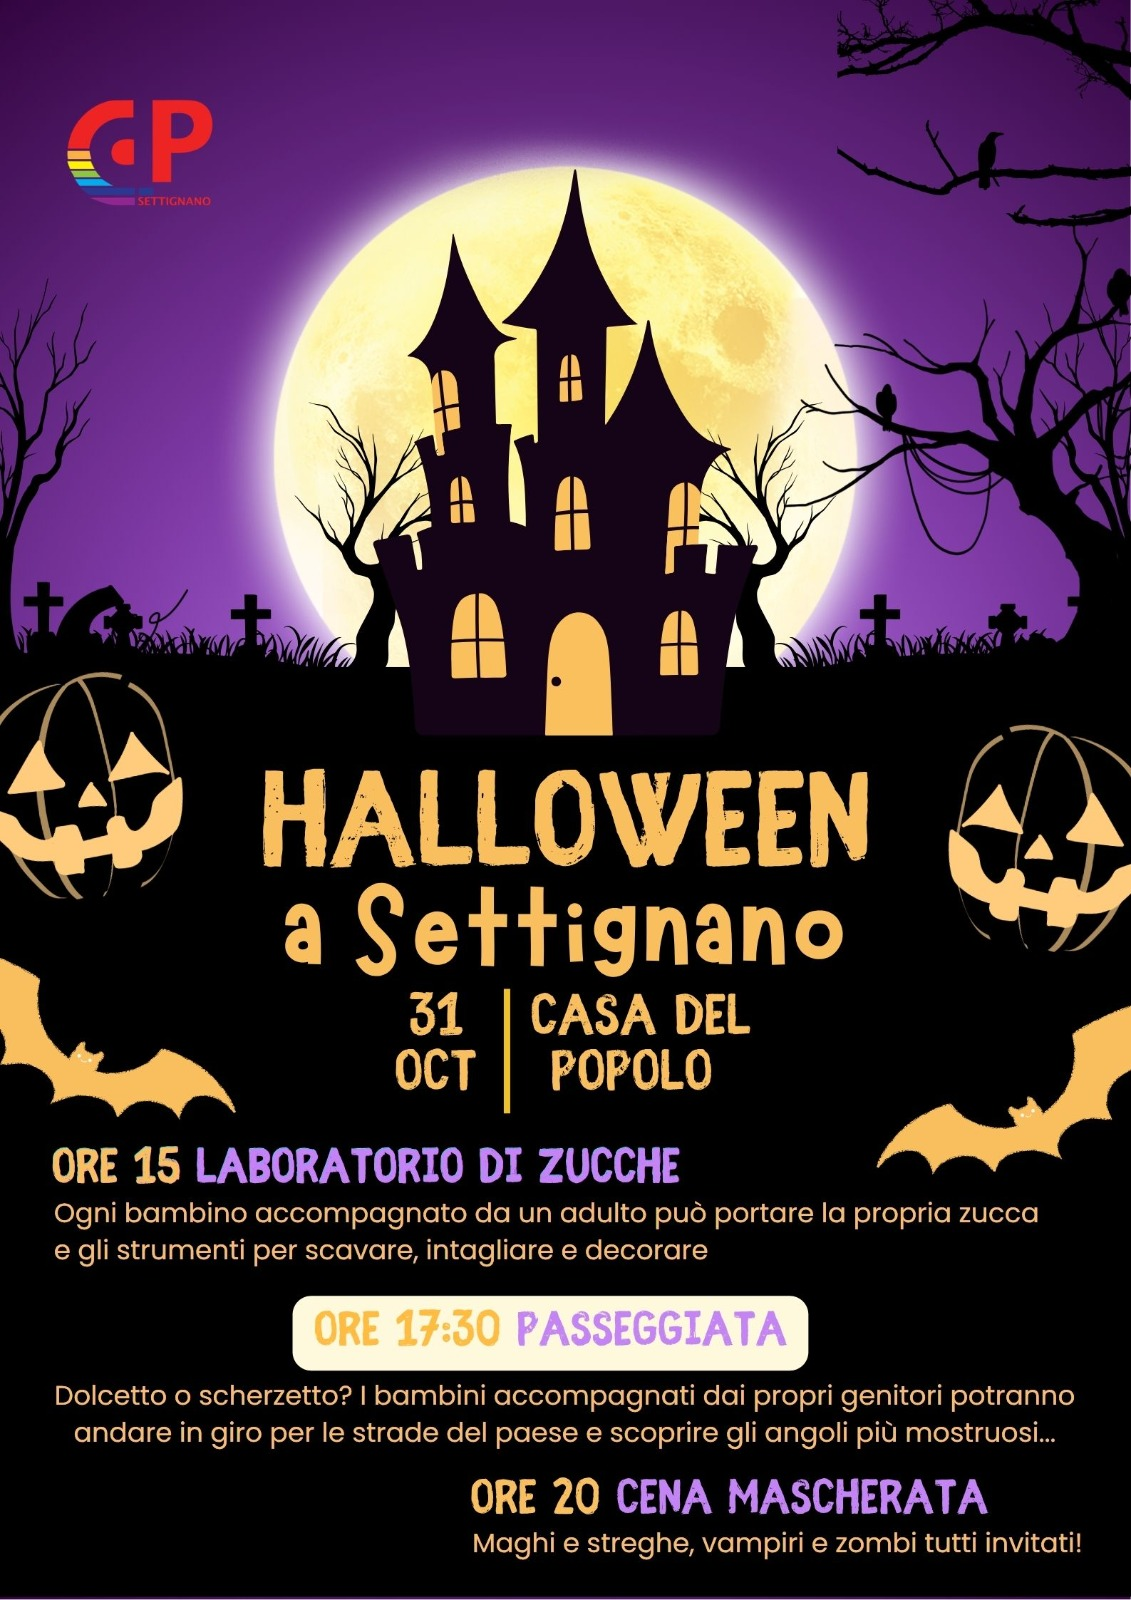
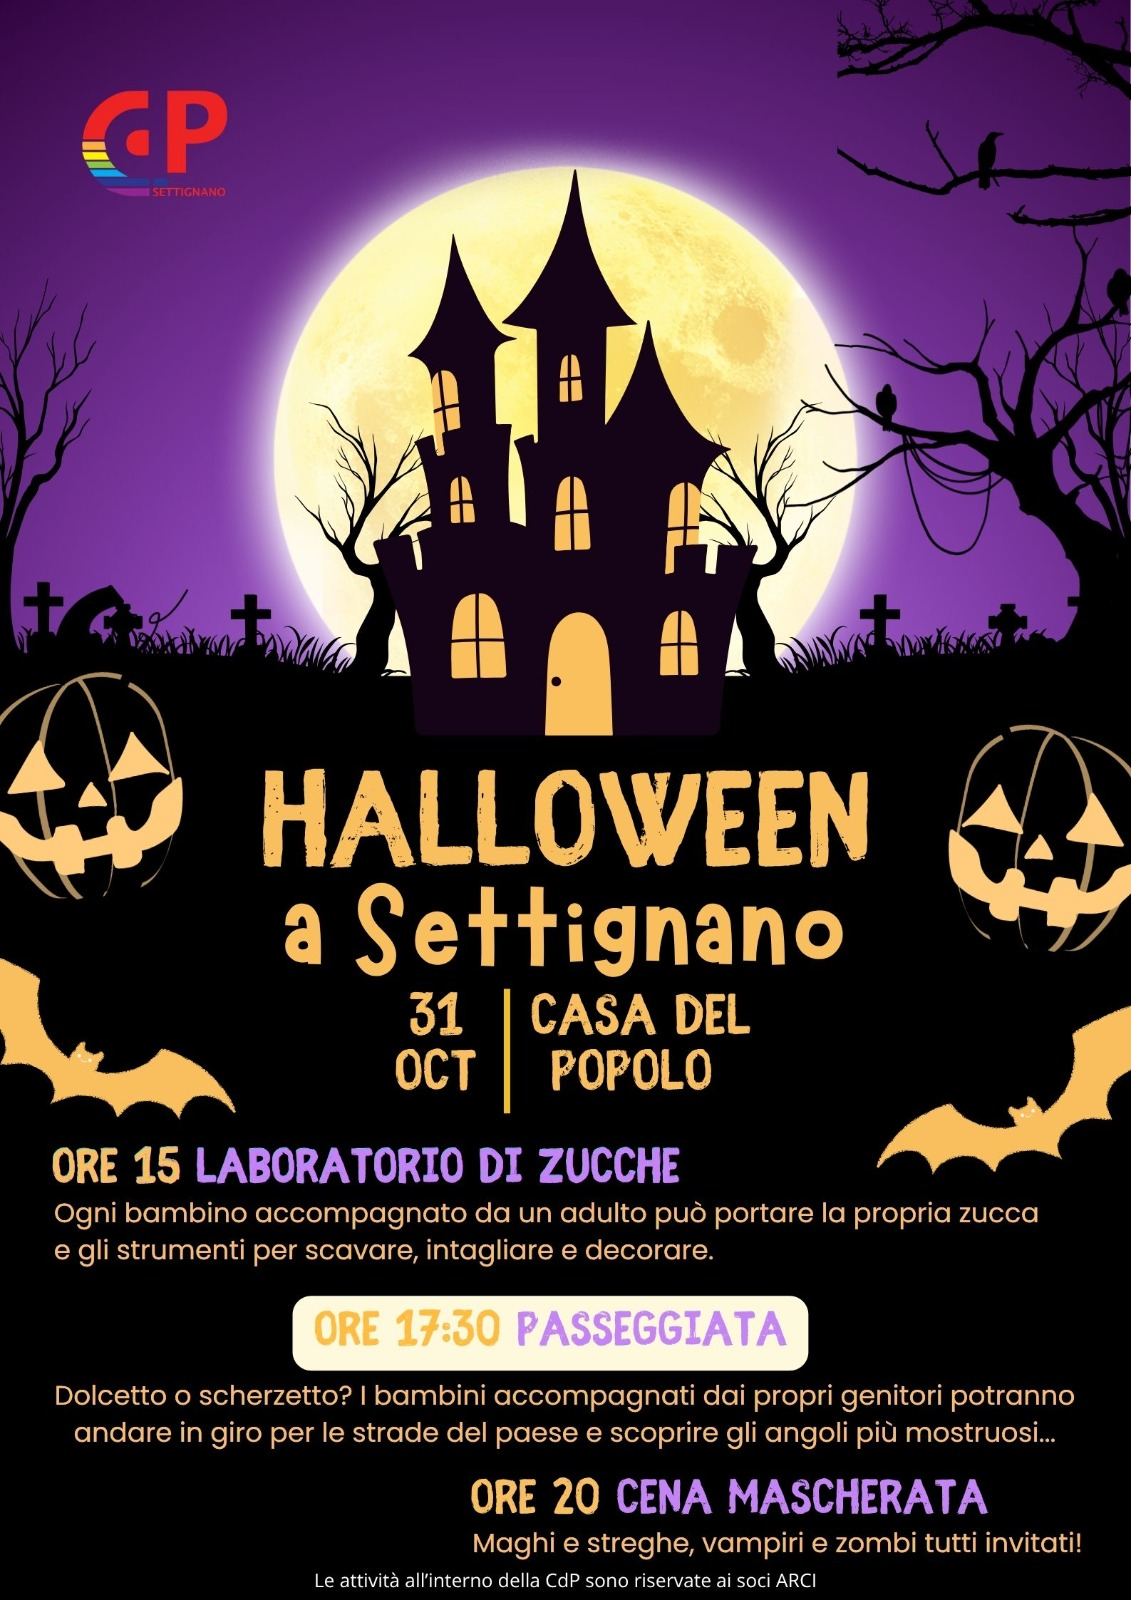
HW26

Changed region(s): [[0.2785, 0.9688, 0.7427, 1.0], [0.0619, 0.0312, 0.2166, 0.1562], [0.3404, 0.4062, 0.3714, 0.4375]]

diff --git a/docs/halloween.md b/docs/halloween.md
@@ -5,6 +5,8 @@ hide:
 ---
 # Halloween a Settignano 2026
 
+Ricordiamo che tutte le attività all'interno della CdP (laboratorio, merenda, cena) sono riservate a chi ha la tessera ARCI
+
 ## Sabato 31 ottobre 
 
 ![volantino](assets/img/halloween/halloween-2026.jpg)
@@ -35,4 +37,5 @@ Infine, alle 20:00, ci ritroveremo tutti insieme per la Cena Mascherata alla Cas
 
 Mappa in costruzione
 
-<!-- ![mappa](assets/img/halloween/halloween-mappa-2025.jpg) -->
+![mappa](assets/img/halloween/halloween-mappa-2026.jpg)
+
